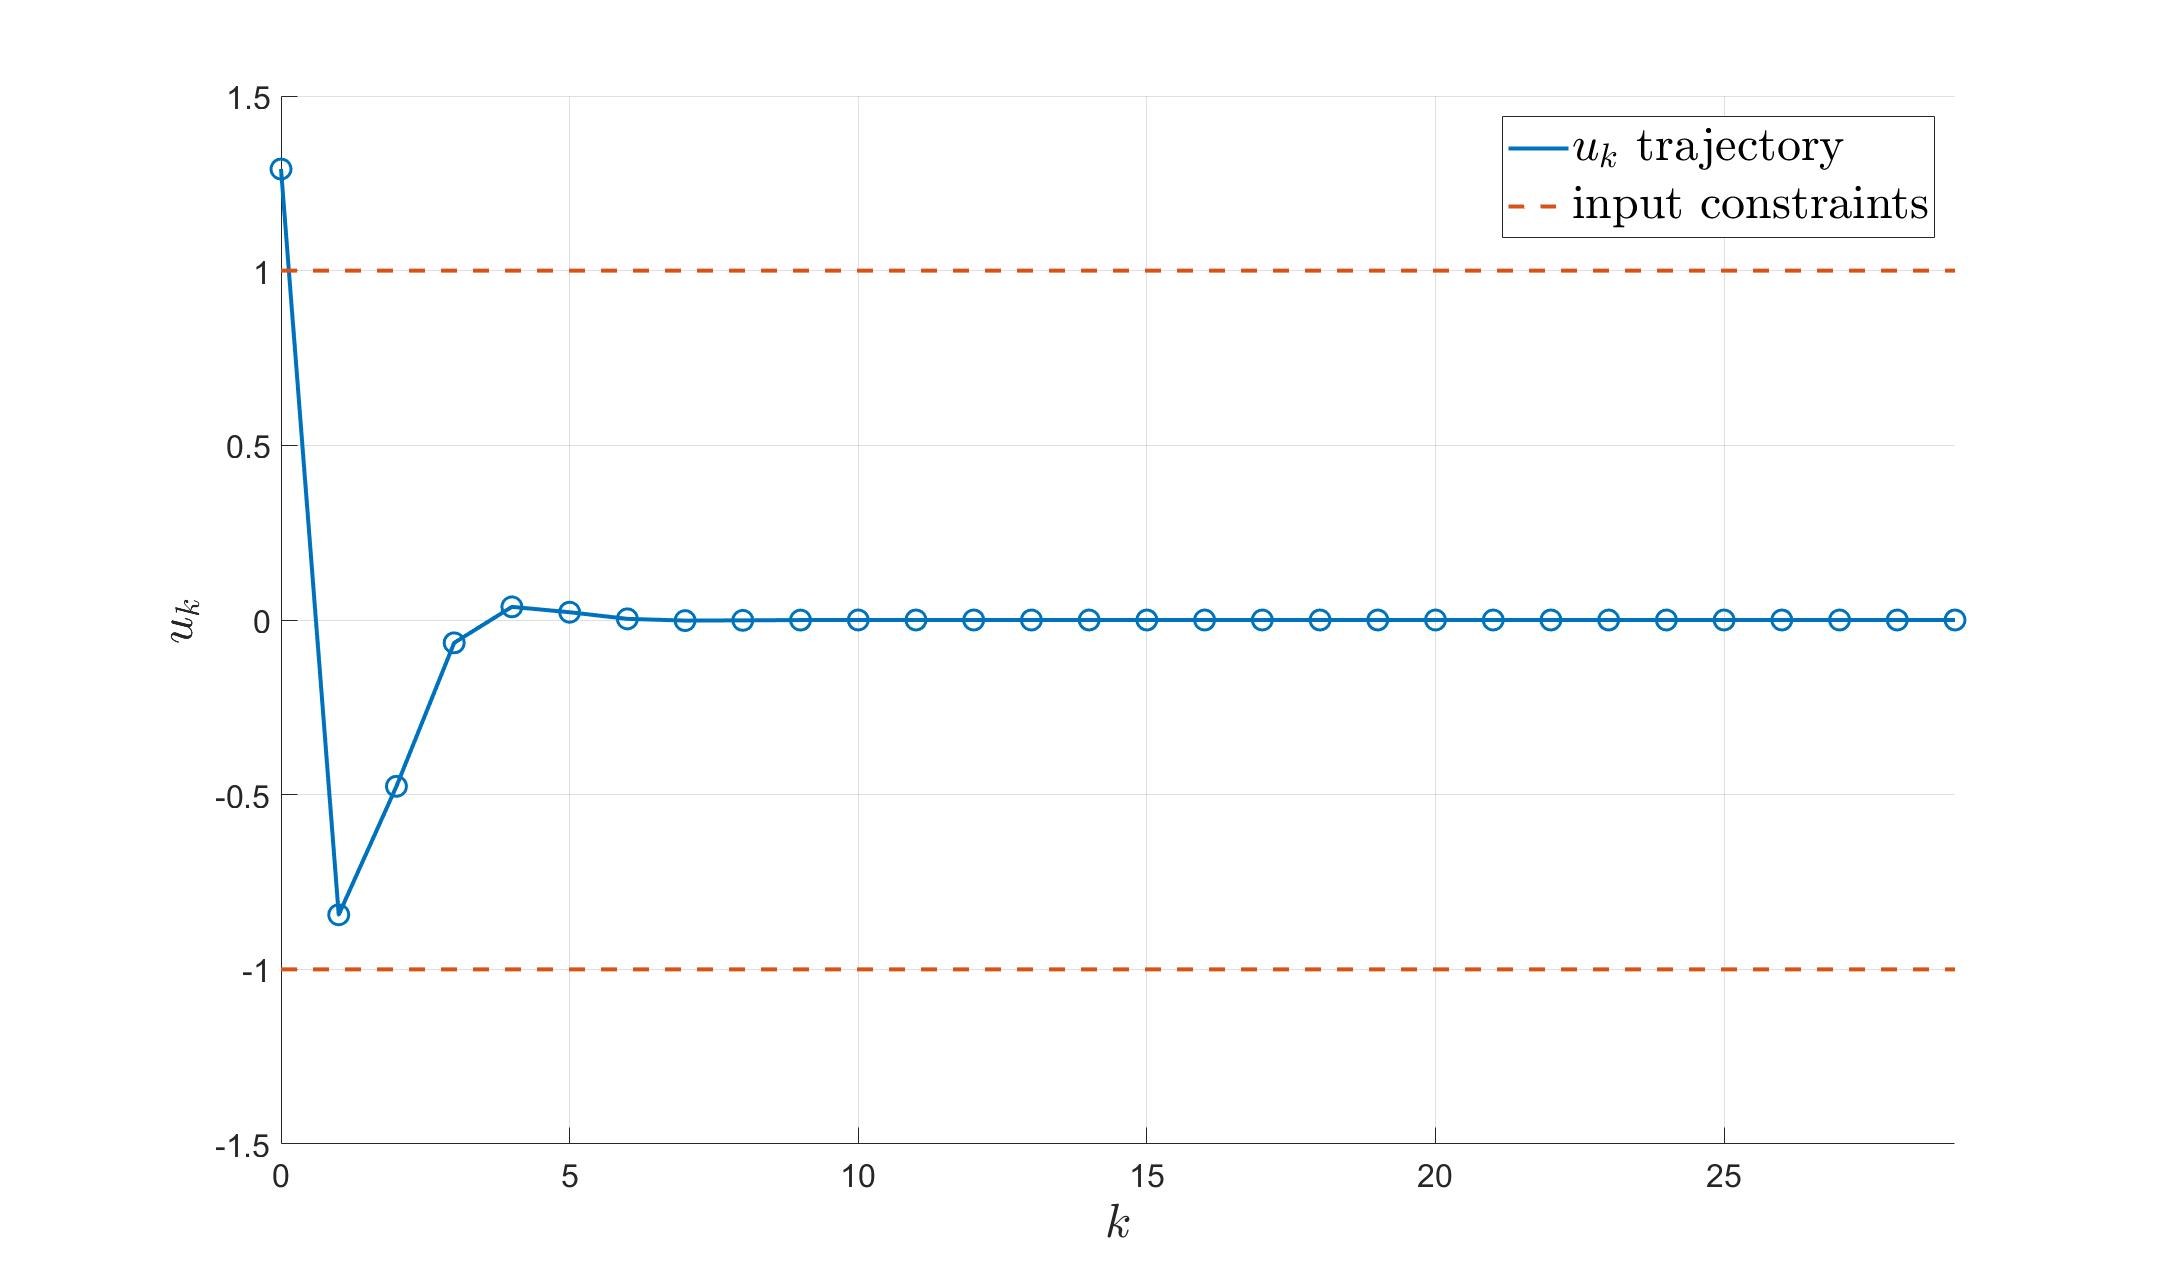
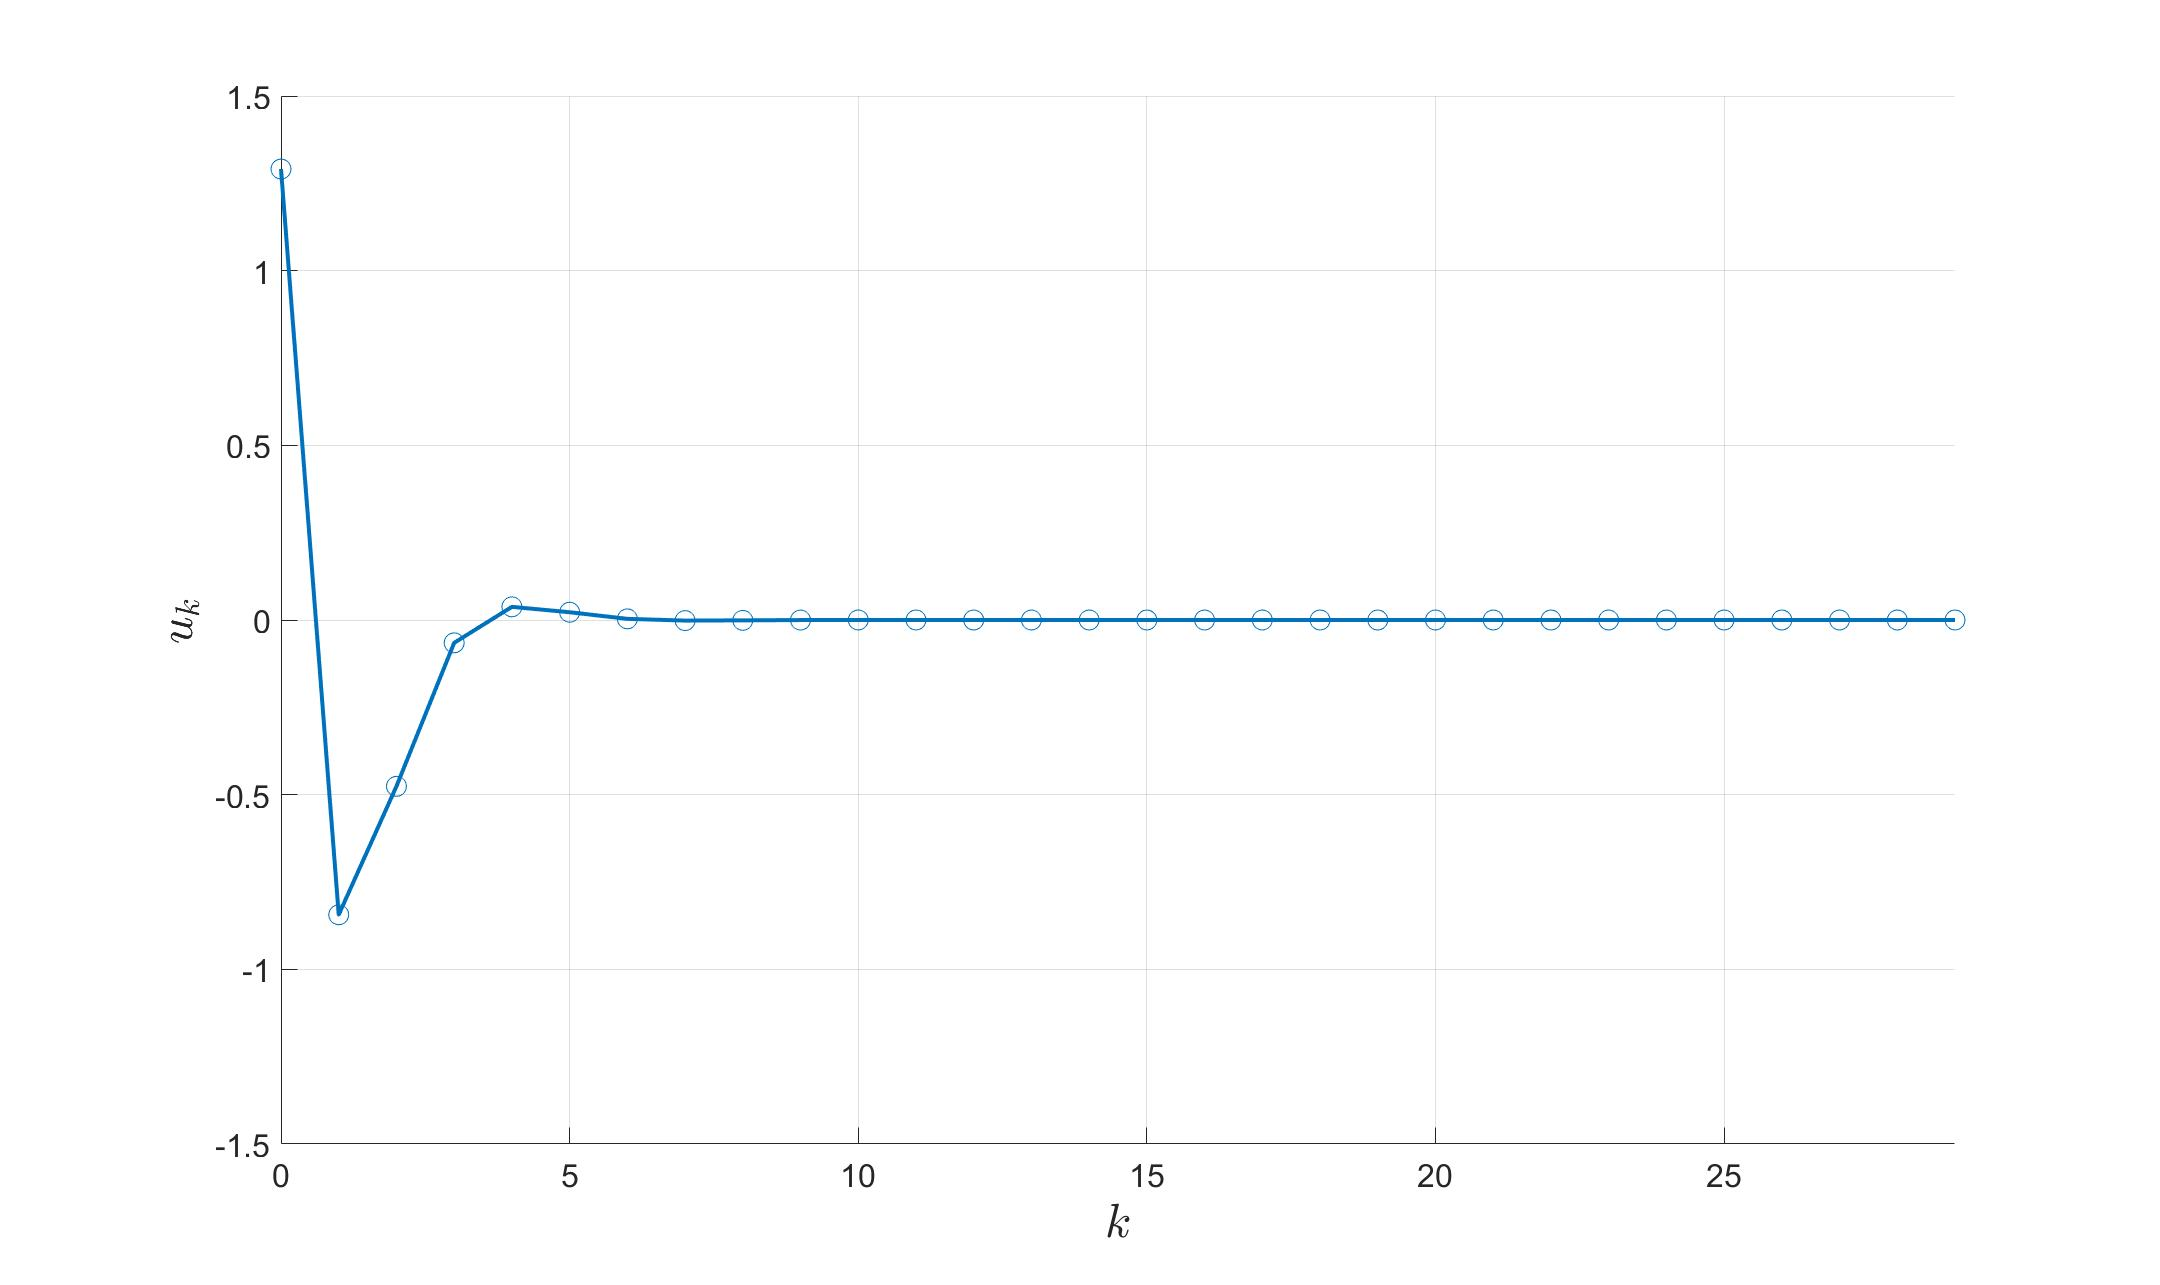
blub

diff --git a/Optimal Control Homework 2/Matlab/run2.m b/Optimal Control Homework 2/Matlab/run2.m
@@ -1,5 +1,9 @@
+%% Setup
+
 clear 
 clc
+
+%% Variables
 
 x0 = [0.6; -0.7]; %[1; -0.9]; %
 A = [1 3; -0.5 1];
@@ -8,6 +12,7 @@ B = [0; 1];
 K = [-0.3, 1.4];
 c = min(eig(P))/norm(K).^2;
 
+%% Matricies for QP
 
 H = eye(11);
 H(7:8,7:8) = P;
@@ -27,25 +32,104 @@ T(7:8,7:8) = P;
 
 d = c;
 
-X = zeros(2,31);
-X(:,1) = x0;
-U = zeros(1,3);
+% MPC
 
-% for k=1:30
-%     x_start = X(:,k);
-%     B_eq = [x_start; zeros(6,1)];
-%     x_pred = fmincon(@(z) z'*H*z, [x_start; zeros(9,1)], A_ineq,B_ineq,A_eq,B_eq,[],[],@(z) quadCon(T,c,z));
-%     X(:,k+1) = x_pred(3:4);
-%     U(k) = x_pred(9);
-% end
+X_MPC = zeros(2,31);
+X_MPC(:,1) = x0;
+U_MPC = zeros(1,30);
+
+for k=1:30
+    x_start = X_MPC(:,k);
+    B_eq = [x_start; zeros(6,1)];
+    x_pred = fmincon(@(z) z'*H*z, [x_start; zeros(9,1)], A_ineq,B_ineq,A_eq,B_eq,[],[],@(z) quadCon(T,c,z));
+    X_MPC(:,k+1) = x_pred(3:4);
+    U_MPC(k) = x_pred(9);
+end
+
+%% Plot MPC
+
+f = @(X) diag(X'*P*X);
+
+x1 = linspace(-1.5,1.5,100);
+x2 = linspace(-0.5,0.5,100);
+
+[X1,X2] = meshgrid(x1,x2);
+Z = reshape(f([X1(:),X2(:)]'),100,100);
+
+figure
+set(gca,'fontsize',16);
+hold on
+plot(X_MPC(1,:),X_MPC(2,:),'color',[0 114 189]/255,'LineWidth',2);
+contour(X1,X2,Z,[c,c],'color',[217 83 25]/255,'LineWidth',2);
+scatter(X_MPC(1,:),X_MPC(2,:),100,'markeredgecolor',[0 114 189]/255,'LineWidth',1);
+hold off
+xlim([-1.8, 1.5])
+xlabel('$x_1$','Interpreter','latex','FontSize',24);
+ylabel('$x_2$','Interpreter','latex','FontSize',24);
+L1 = legend('$x_k$ trajectory', 'terminal region');
+set(L1,'Interpreter','latex');
+set(L1,'FontSize',24);
+set(L1,'Location','northeast');
+grid on
+
+figure
+set(gca,'fontsize',16);
+hold on
+plot(0:length(U_MPC)-1,U_MPC,'color',[0 114 189]/255,'LineWidth',2);
+plot([0, length(U_MPC)-1],[1,1],'--','color',[217 83 25]/255,'LineWidth',2);
+scatter(0:length(U_MPC)-1,U_MPC,'markeredgecolor',[0 114 189]/255,'LineWidth',1);
+plot([0, length(U_MPC)-1],[-1,-1],'--','color',[217 83 25]/255,'LineWidth',2);
+hold off
+ylim([-1.5 1.5]);
+xlim([0 length(U_MPC)-1])
+xlabel('$k$','Interpreter','latex','FontSize',24);
+ylabel('$u_k$','Interpreter','latex','FontSize',24);
+L1 = legend('$x_k$ trajectory', 'terminal region');
+set(L1,'Interpreter','latex');
+set(L1,'FontSize',24);
+set(L1,'Location','northeast');
+grid on
+
+%% LQ
+
+X_LQ = zeros(2,31);
+X_LQ(:,1) = x0;
+U_LQ = zeros(1,30);
 
 [K,~,~] = dlqr(A,B,eye(2),1,0);
 
 for k=1:30
-    U(k) = -K*X(:,k);
-    X(:,k+1) = (A - B*K)*X(:,k);
+    U_LQ(k) = -K*X_LQ(:,k);
+    X_LQ(:,k+1) = (A - B*K)*X_LQ(:,k);
 end
 
-figure
-plot(0:30,X(1,:),0:30,X(2,:),0:29,U,'LineWidth',2)
+%% Plot LQ
 
+figure
+set(gca,'fontsize',16);
+hold on
+plot(X_LQ(1,:),X_LQ(2,:),'color',[0 114 189]/255,'LineWidth',2);
+contour(X1,X2,Z,[c,c],'color',[217 83 25]/255,'LineWidth',2);
+scatter(X_LQ(1,:),X_LQ(2,:),100,'markeredgecolor',[0 114 189]/255,'LineWidth',1);
+hold off
+xlim([-1.8, 1.5])
+xlabel('$x_1$','Interpreter','latex','FontSize',24);
+ylabel('$x_2$','Interpreter','latex','FontSize',24);
+L1 = legend('$x_k$ trajectory', 'terminal region');
+set(L1,'Interpreter','latex');
+set(L1,'FontSize',24);
+set(L1,'Location','northeast');
+grid on
+
+figure
+set(gca,'fontsize',16);
+hold on
+plot(0:length(U_LQ)-1,U_LQ,'color',[0 114 189]/255,'LineWidth',2);
+scatter(0:length(U_LQ)-1,U_LQ,100,'markeredgecolor',[0 114 189]/255,'LineWidth',1);
+hold off
+ylim([-1.5 1.5]);
+xlim([0 length(U_LQ)-1])
+xlabel('$k$','Interpreter','latex','FontSize',24);
+ylabel('$u_k$','Interpreter','latex','FontSize',24);
+grid on
+ 
